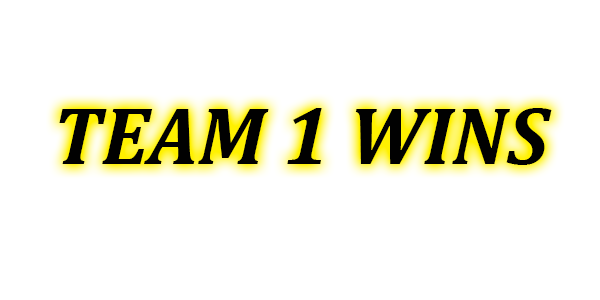
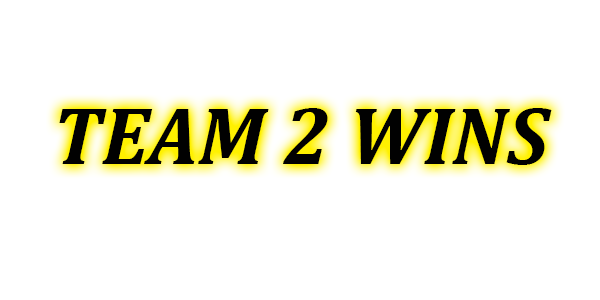
minor fixes

Changed region(s): [[0.45, 0.33, 0.57, 0.57]]

diff --git a/src/TCPServer.cpp b/src/TCPServer.cpp
@@ -860,7 +860,7 @@ void TCPServer::roundRun(int whoWon, EventHandler *handler, int roundNum) {
 
 int TCPServer::getCurrentWinner() {
     bool didTeamOneWon = (team[0]->getSumOfLife() > team[1]->getSumOfLife());
-    return didTeamOneWon ? 1 : 2;
+    return didTeamOneWon ? 0 : 1;
 }
 
 bool TCPServer::anyTeamLost() {
